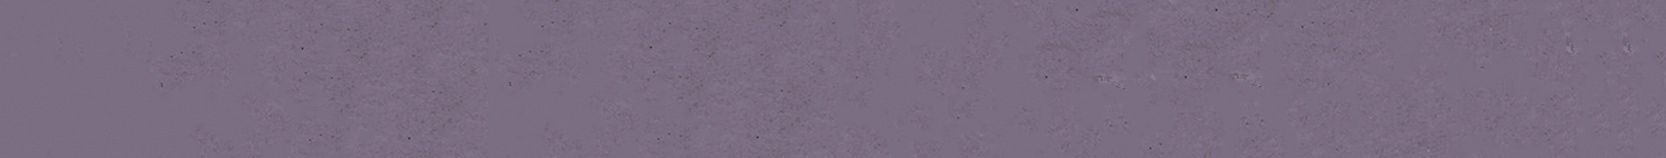
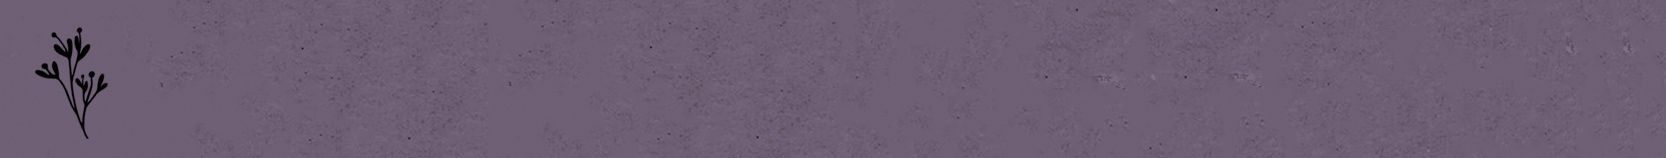
primeros pasos con la maqueta. Home básico, header y hero + algo del navbar

Changed region(s): [[0.0, 0.1772, 0.0624, 0.7848]]

diff --git a/src/app/app.module.ts b/src/app/app.module.ts
@@ -17,7 +17,6 @@ import { ListarBrujasComponent } from './components/blog/brujas/listar-brujas/li
 import { NuevaBrujaComponent } from './components/blog/brujas/nueva-bruja/nueva-bruja.component';
 import { ListarComentariosComponent } from './components/blog/comentarios/listar-comentarios/listar-comentarios.component';
 import { ContactoComponent } from './components/home/contacto/contacto.component';
-import { HeroComponent } from './components/home/hero/hero.component';
 import { NosotrasComponent } from './components/home/nosotras/nosotras.component';
 import { FooterComponent } from './components/shared/footer/footer.component';
 import { NavbarComponent } from './components/shared/navbar/navbar.component';
@@ -39,6 +38,7 @@ import { RegistroPageComponent } from './pages/usuarios/registro-page/registro-p
 import { UsuarioInfoPageComponent } from './pages/usuarios/usuario-info-page/usuario-info-page.component';
 import { ProductoInfoPageComponent } from './pages/tienda/producto-info-page/producto-info-page.component';
 import { NuevoComentarioComponent } from './components/blog/comentarios/nuevo-comentario/nuevo-comentario.component';
+import { HeaderComponent } from './components/home/header/header.component';
 
 @NgModule({
   declarations: [
@@ -52,7 +52,6 @@ import { NuevoComentarioComponent } from './components/blog/comentarios/nuevo-co
     NuevaBrujaComponent,
     ListarComentariosComponent,
     ContactoComponent,
-    HeroComponent,
     NosotrasComponent,
     FooterComponent,
     NavbarComponent,
@@ -73,7 +72,8 @@ import { NuevoComentarioComponent } from './components/blog/comentarios/nuevo-co
     RegistroPageComponent,
     UsuarioInfoPageComponent,
     ProductoInfoPageComponent,
-    NuevoComentarioComponent
+    NuevoComentarioComponent,
+    HeaderComponent
   ],
   imports: [
     BrowserModule,

diff --git a/src/app/components/shared/navbar/navbar.component.css b/src/app/components/shared/navbar/navbar.component.css
@@ -1,22 +1,45 @@
 .navbar{
-    background-color: #1a1a1a;
-    color: #fff;
-    font-family: 'Roboto', sans-serif;
-    font-size: 1.2em;
+    height: 48px;
+    background-color: #2a2030;
     font-weight: 300;
-    margin-bottom: 0;
-    padding: 0;
+    padding: 8px;
+    text-align: center  ;
     text-transform: uppercase;
     display: flex;
     flex-direction: row;
     justify-content: space-between;
 }
 
-.navbar-links{
+/* .navbar-links{
+    color:#b39fb6;
+    font-size: 1.4rem;
+    font-family: 'Quicksand', sans-serif;
+    text-decoration: none;
+    text-align: center;
+    margin: 0;
+    padding: 0.5rem;
     display: flex;
     flex-direction: row;
     justify-content: space-between;
     width: 50%;
-    margin: auto;
+
+    cursor: pointer;
+} */
+
+.navbar-links{
+    display: flex;
+    flex-direction: row;
+    justify-content: space-between;
+}
+
+.navbar-links a{
+    color:#b39fb6;
+    font-size: 1.4rem;
+    font-family: 'Quicksand', sans-serif;
+    text-decoration: none;
+    text-align: center;
+    margin: 0;
+    padding: 0.5rem;
+    width: 50%;
     cursor: pointer;
 }

diff --git a/src/styles.css b/src/styles.css
@@ -1,16 +1,33 @@
 /* You can add global styles to this file, and also import other style files */
-html{
+@import url('https://fonts.googleapis.com/css2?family=Homemade+Apple&family=Merriweather&family=Philosopher&family=Quicksand:wght@300;400;500&family=Raleway:wght@200&family=Reenie+Beanie&display=swap');
+
+html {
     box-sizing: border-box;
     font-size: 62.5%;
 }
 
-*, *:before, *:after{
+*,
+*:before,
+*:after {
     box-sizing: inherit;
 }
 
-body{
-    font-family: 'Roboto', sans-serif;
+body {
     font-size: 1.6rem;
     margin: 0;
     padding: 0;
+    background-image: url(../src/assets/img/fondo.jpg);
+    background-size: cover;
 }
+
+hr {
+    border: .15rem solid #b39fb6;
+    margin: 0;
+}
+
+h1 {
+    font-family: 'Reenie Beanie', cursive;
+    font-size: 7rem;
+    margin: 0;
+}
+

diff --git a/src/app/components/home/header/header.component.spec.ts b/src/app/components/home/header/header.component.spec.ts
@@ -1,16 +1,16 @@
 import { ComponentFixture, TestBed } from '@angular/core/testing';
 
-import { HeroComponent } from './hero.component';
+import { HeaderComponent } from './header.component';
 
-describe('HeroComponent', () => {
-  let component: HeroComponent;
-  let fixture: ComponentFixture<HeroComponent>;
+describe('HeaderComponent', () => {
+  let component: HeaderComponent;
+  let fixture: ComponentFixture<HeaderComponent>;
 
   beforeEach(() => {
     TestBed.configureTestingModule({
-      declarations: [HeroComponent]
+      declarations: [HeaderComponent]
     });
-    fixture = TestBed.createComponent(HeroComponent);
+    fixture = TestBed.createComponent(HeaderComponent);
     component = fixture.componentInstance;
     fixture.detectChanges();
   });

diff --git a/src/app/pages/home-page/home-page.component.html b/src/app/pages/home-page/home-page.component.html
@@ -1,6 +1,8 @@
-<p>Home-Page works!</p>
-<p *ngIf="isAdminRole">Hola admin!</p>
-<button (click)="cerrarSesion()">logout</button>
+
+<!-- <p *ngIf="isAdminRole">Hola admin!</p> -->
+<header></header>
+<div class="hero"></div>
+<!-- <button (click)="cerrarSesion()">logout</button> -->
 <!--<form [formGroup]="form" (ngSubmit)="agregarProducto()">
     <input type="number" formControlName="id_planta">
     <input type="text" formControlName="nombre">

diff --git a/src/app/components/shared/navbar/navbar.component.html b/src/app/components/shared/navbar/navbar.component.html
@@ -1,5 +1,5 @@
+<hr>
 <div class="navbar">
-    <p>Midnight Apothecary</p>
     <div class="navbar-links">
         <a [routerLink]="['/home']">Home</a>
         <a *ngIf="!isLogged && firebaseAuthenticationReady" [routerLink]="['/login']">Iniciar Sesion</a>
@@ -10,3 +10,4 @@
         <a *ngIf="isLogged && firebaseAuthenticationReady" (click)="cerrarSesion()">Cerrar Sesion</a>
     </div>
 </div>
+<hr>

diff --git a/src/app/pages/home-page/home-page.component.css b/src/app/pages/home-page/home-page.component.css
@@ -1,0 +1,9 @@
+.hero{
+    position: relative;
+    width: 100%;
+    height: 80vh;
+    background-image: url(../../../assets/img/hero6.jpg);
+    background-position: center;
+    background-repeat: no-repeat;
+    background-size: cover;
+}

diff --git a/src/app/components/home/header/header.component.css b/src/app/components/home/header/header.component.css
@@ -1,0 +1,9 @@
+.header{
+    background-image: url(../../../../assets/img/header.jpg);
+    background-size: cover;
+    background-position: center;
+    height: 100%;
+    margin: 0;
+    padding: 3rem;
+    text-align: center;
+}

diff --git a/src/app/components/home/header/header.component.ts b/src/app/components/home/header/header.component.ts
@@ -1,0 +1,10 @@
+import { Component } from '@angular/core';
+
+@Component({
+  selector: 'app-header',
+  templateUrl: './header.component.html',
+  styleUrls: ['./header.component.css']
+})
+export class HeaderComponent {
+
+}

diff --git a/src/app/app.component.html b/src/app/app.component.html
@@ -1,2 +1,3 @@
+<app-header></app-header>
 <app-navbar></app-navbar>
 <router-outlet></router-outlet>

diff --git a/src/app/components/home/header/header.component.html b/src/app/components/home/header/header.component.html
@@ -1,0 +1,3 @@
+<div class="header">
+    <h1>Midnight Apothecary</h1>
+</div>
